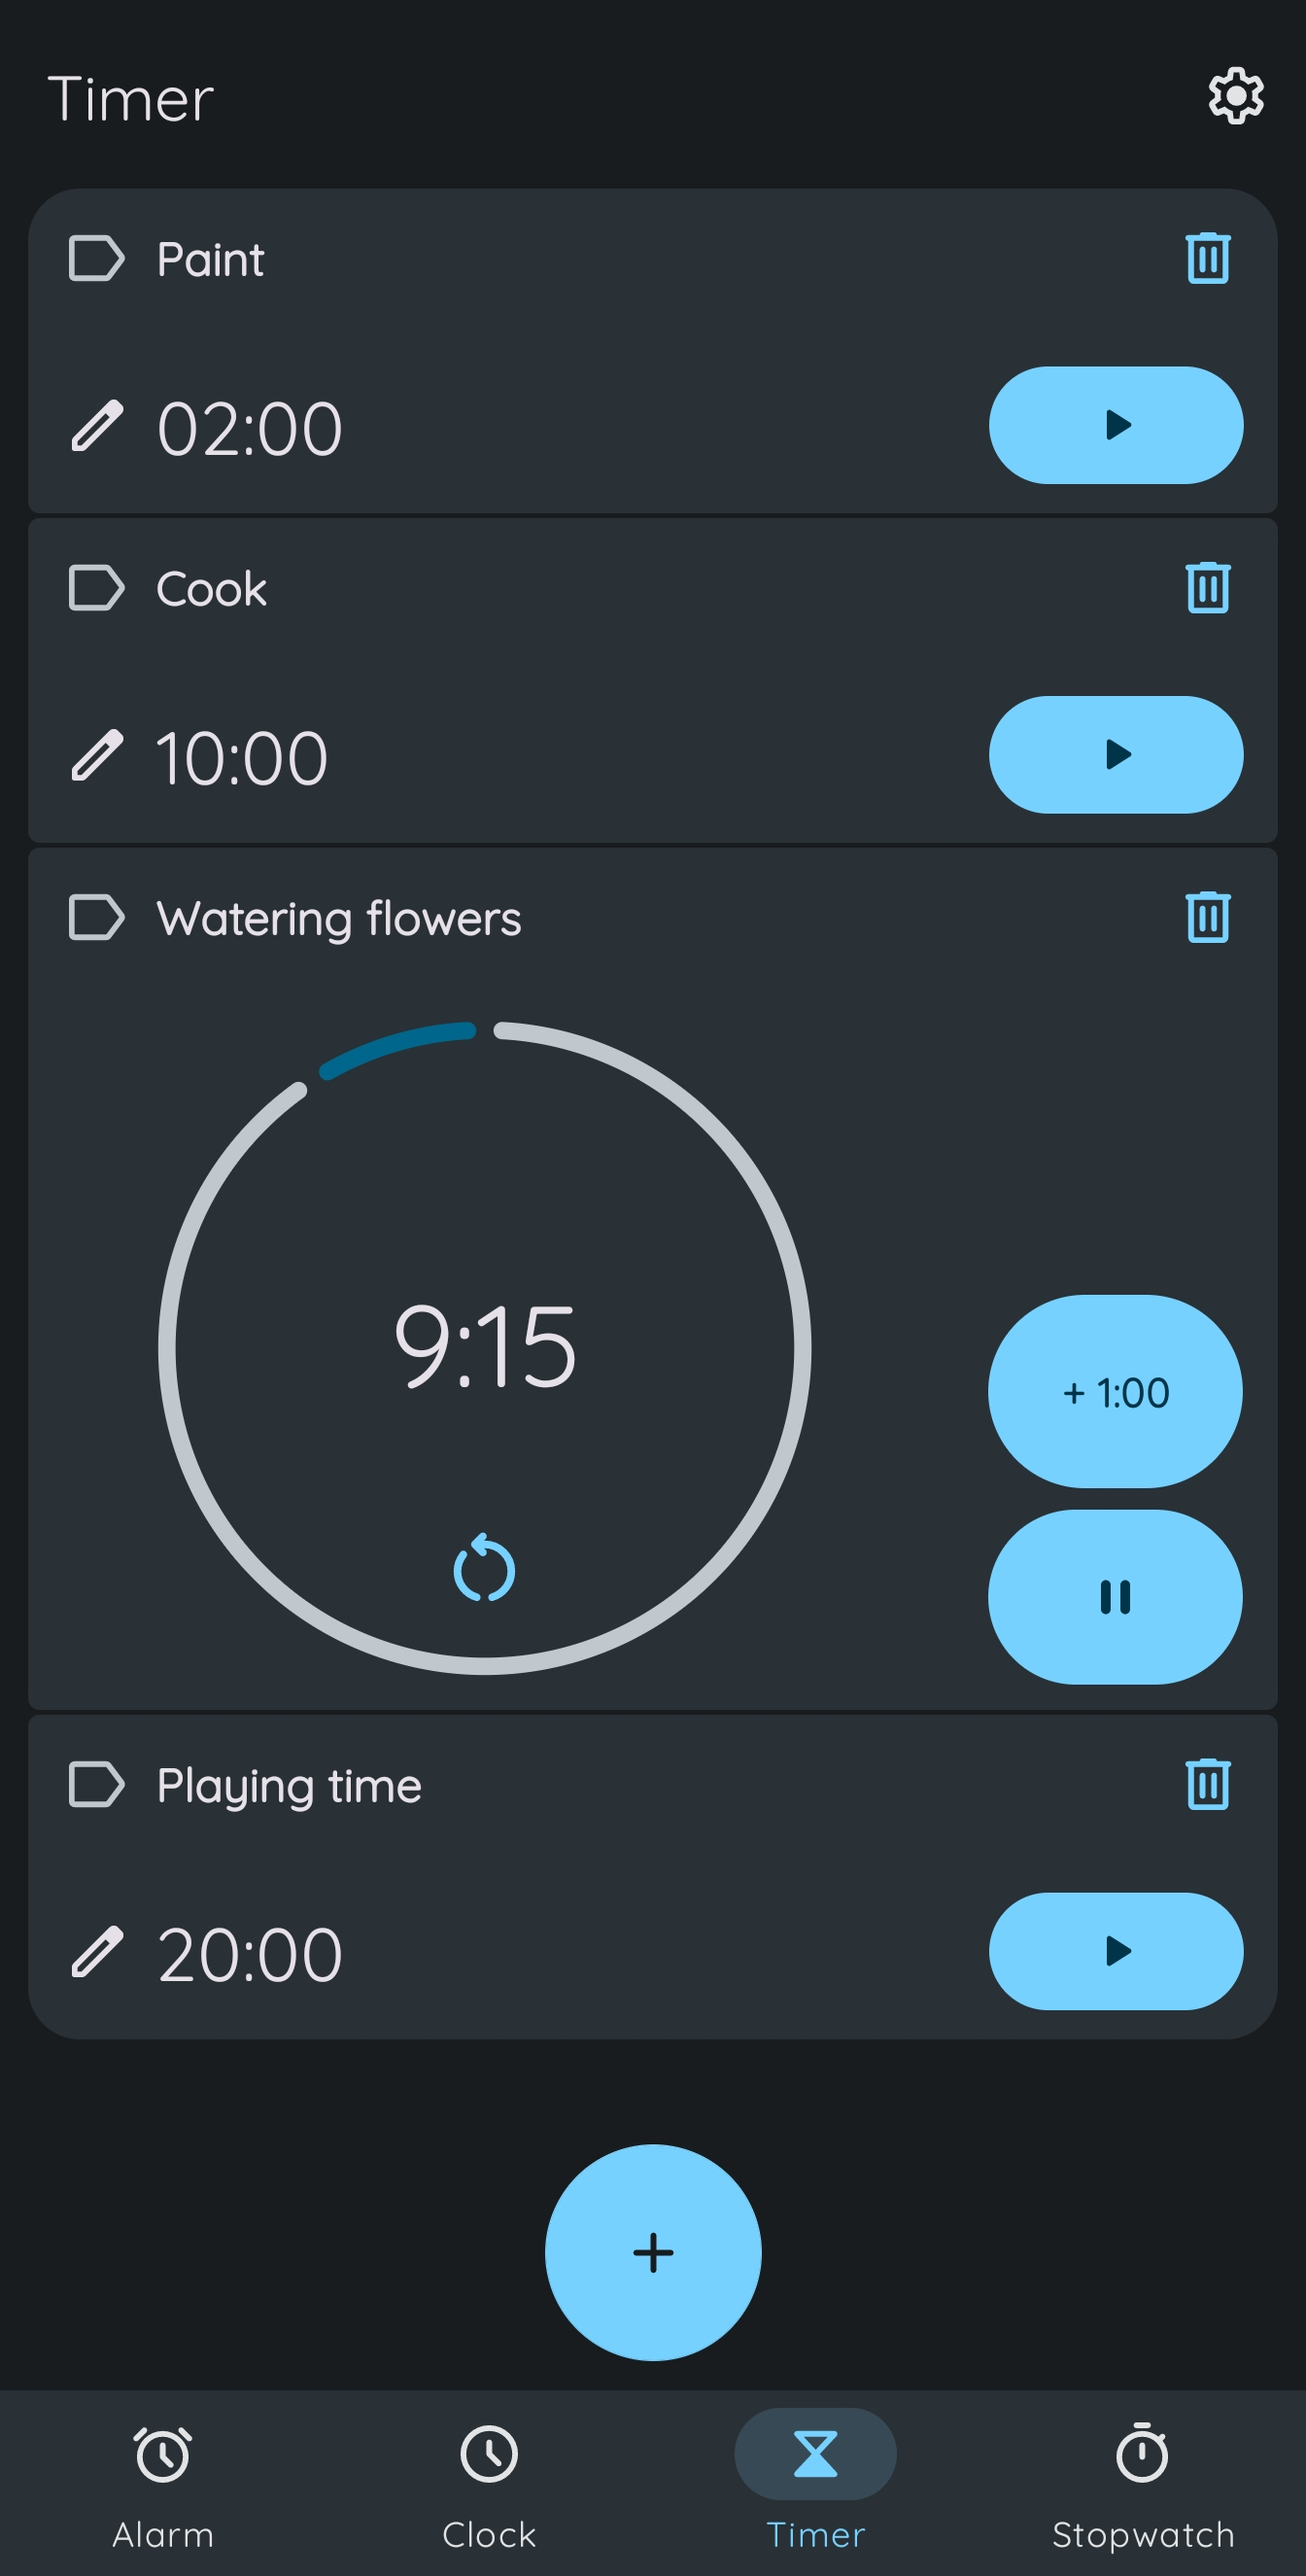
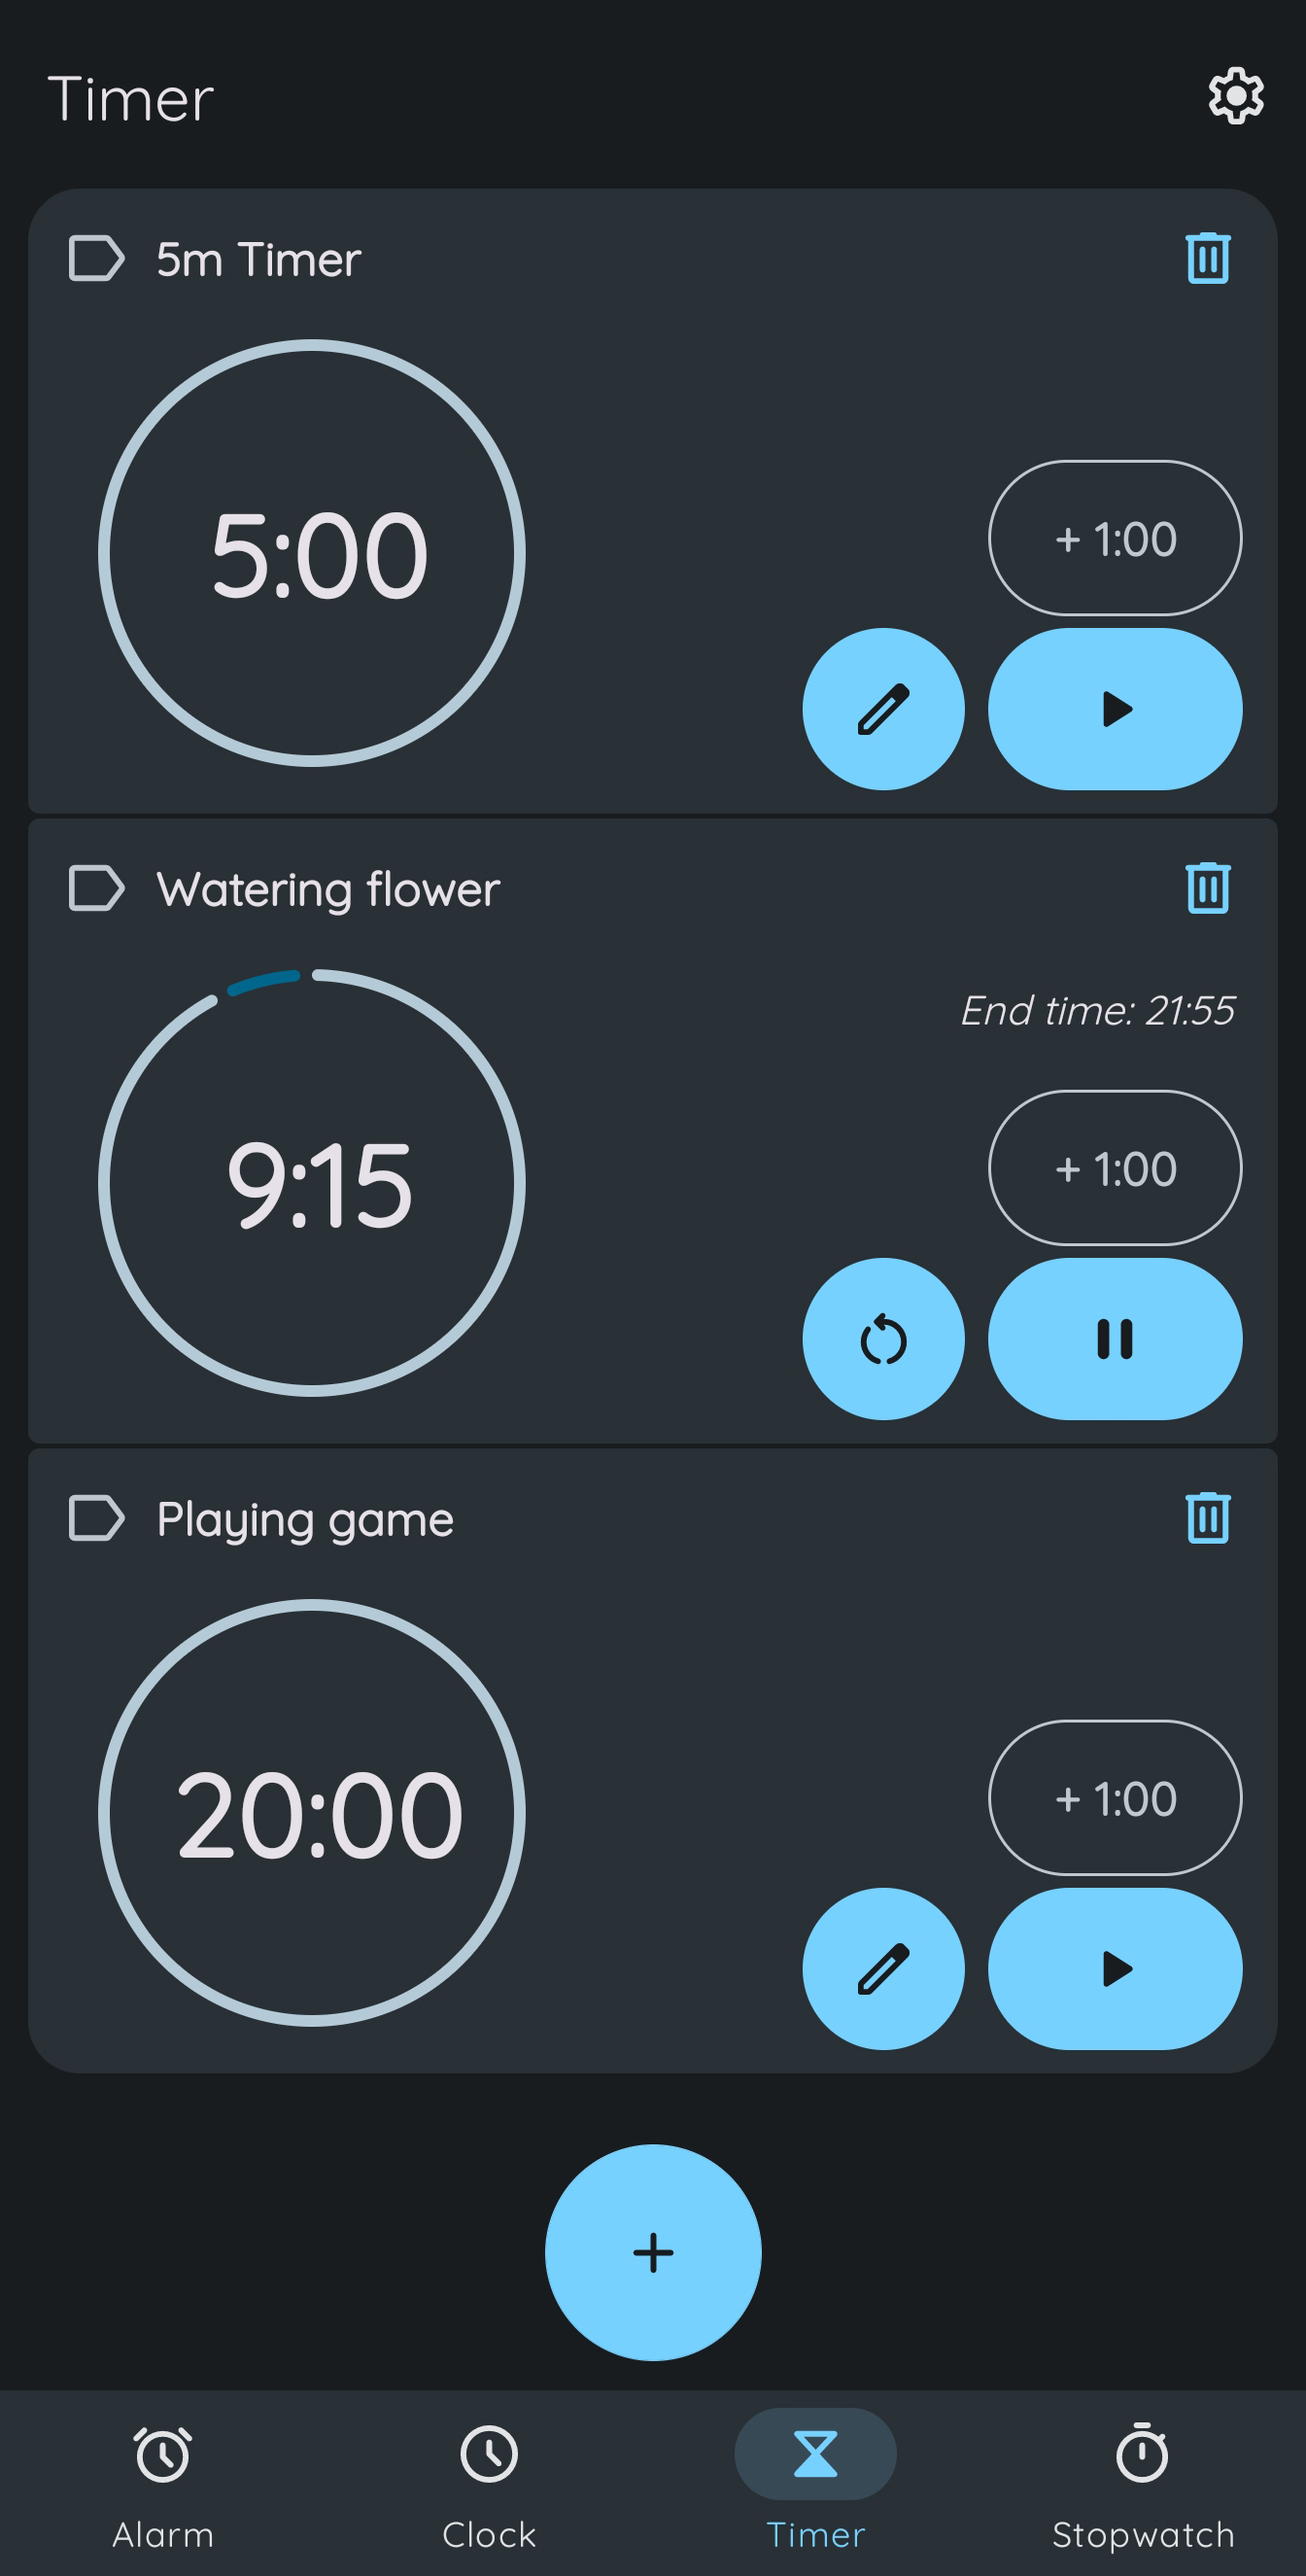
Update translations, Gradle, screenshots in Readme, and version

diff --git a/README.md b/README.md
@@ -19,7 +19,6 @@ It combines modern design, powerful features, and transparency — giving you fu
 [<img src="/images/badge_f-droid.png" alt="Get it on F-Droid" height="80">](https://f-droid.org/packages/com.best.deskclock/)
 [<img src="/images/badge_izzy_on_droid.png" alt="Get it on IzzyOnDroid" height="80">](https://apt.izzysoft.de/fdroid/index/apk/com.best.deskclock/)
 [<img src="/images/badge_obtainium.png" alt="Get it on Obtainium" height="80">](https://apps.obtainium.imranr.dev/redirect?r=obtainium://add/https://github.com/BlackyHawky/Clock/releases)
-[<img src="/images/badge_openApk.png" alt="Get it on OpenApk" height="80">](https://www.openapk.net/clock/com.best.deskclock/)
 
 > [!NOTE]  
 > **Build variants:**
